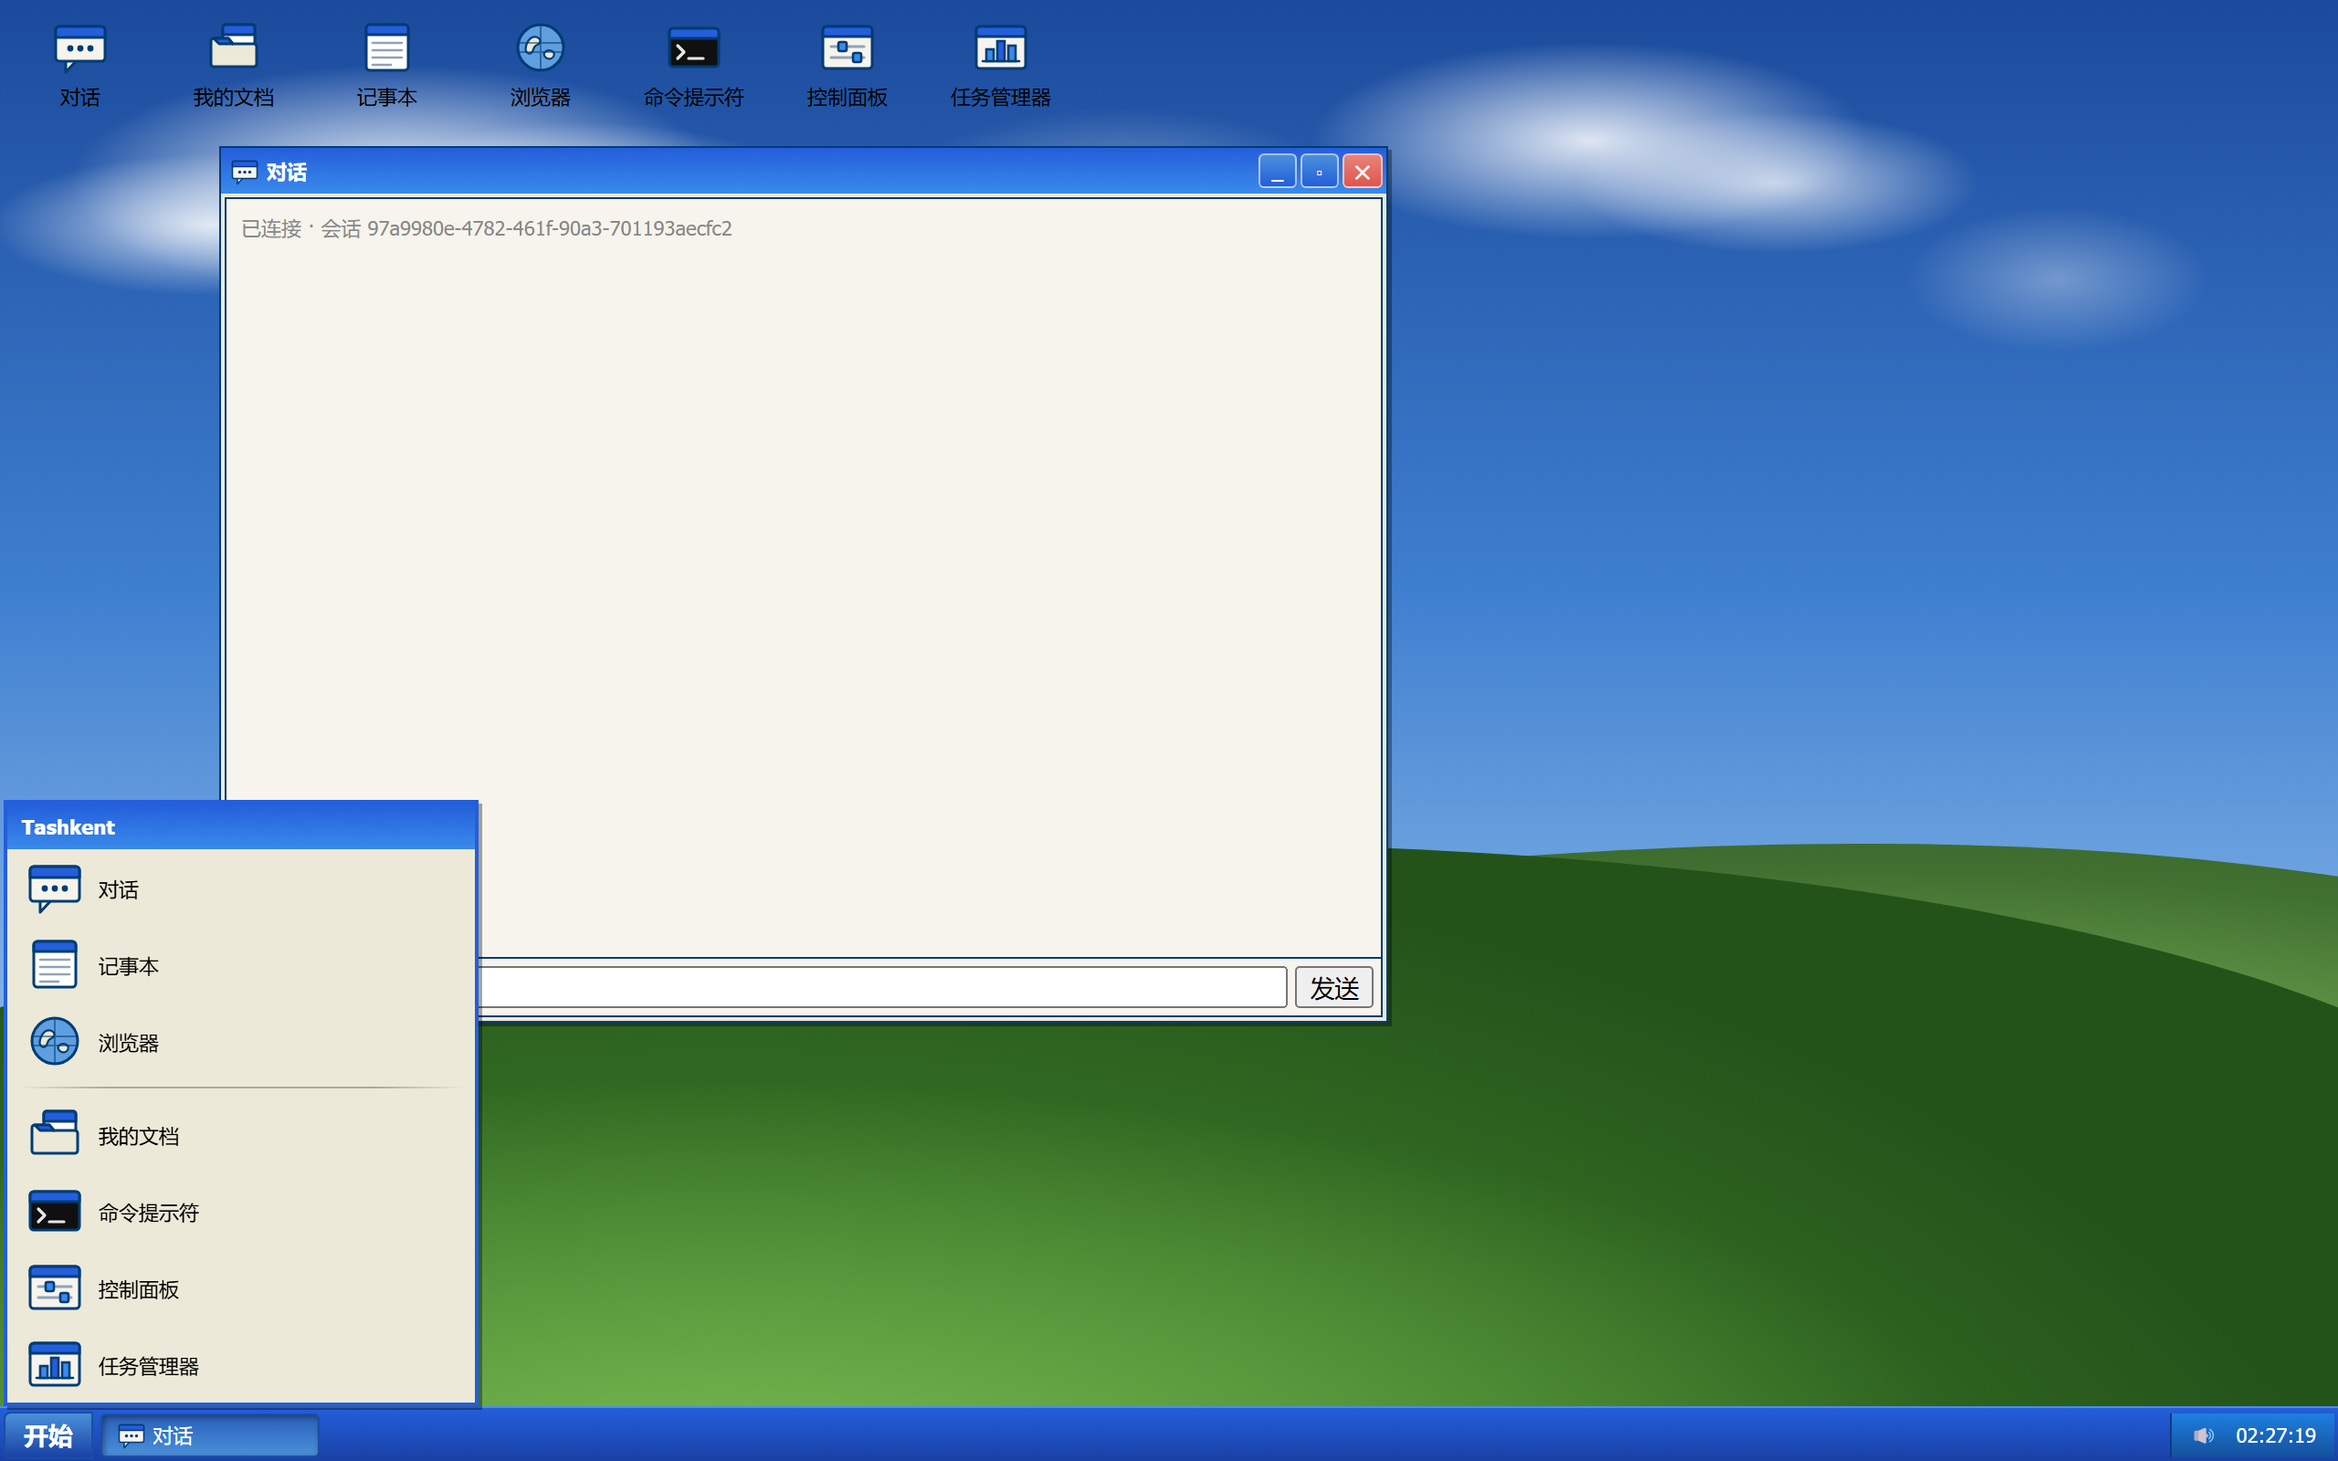
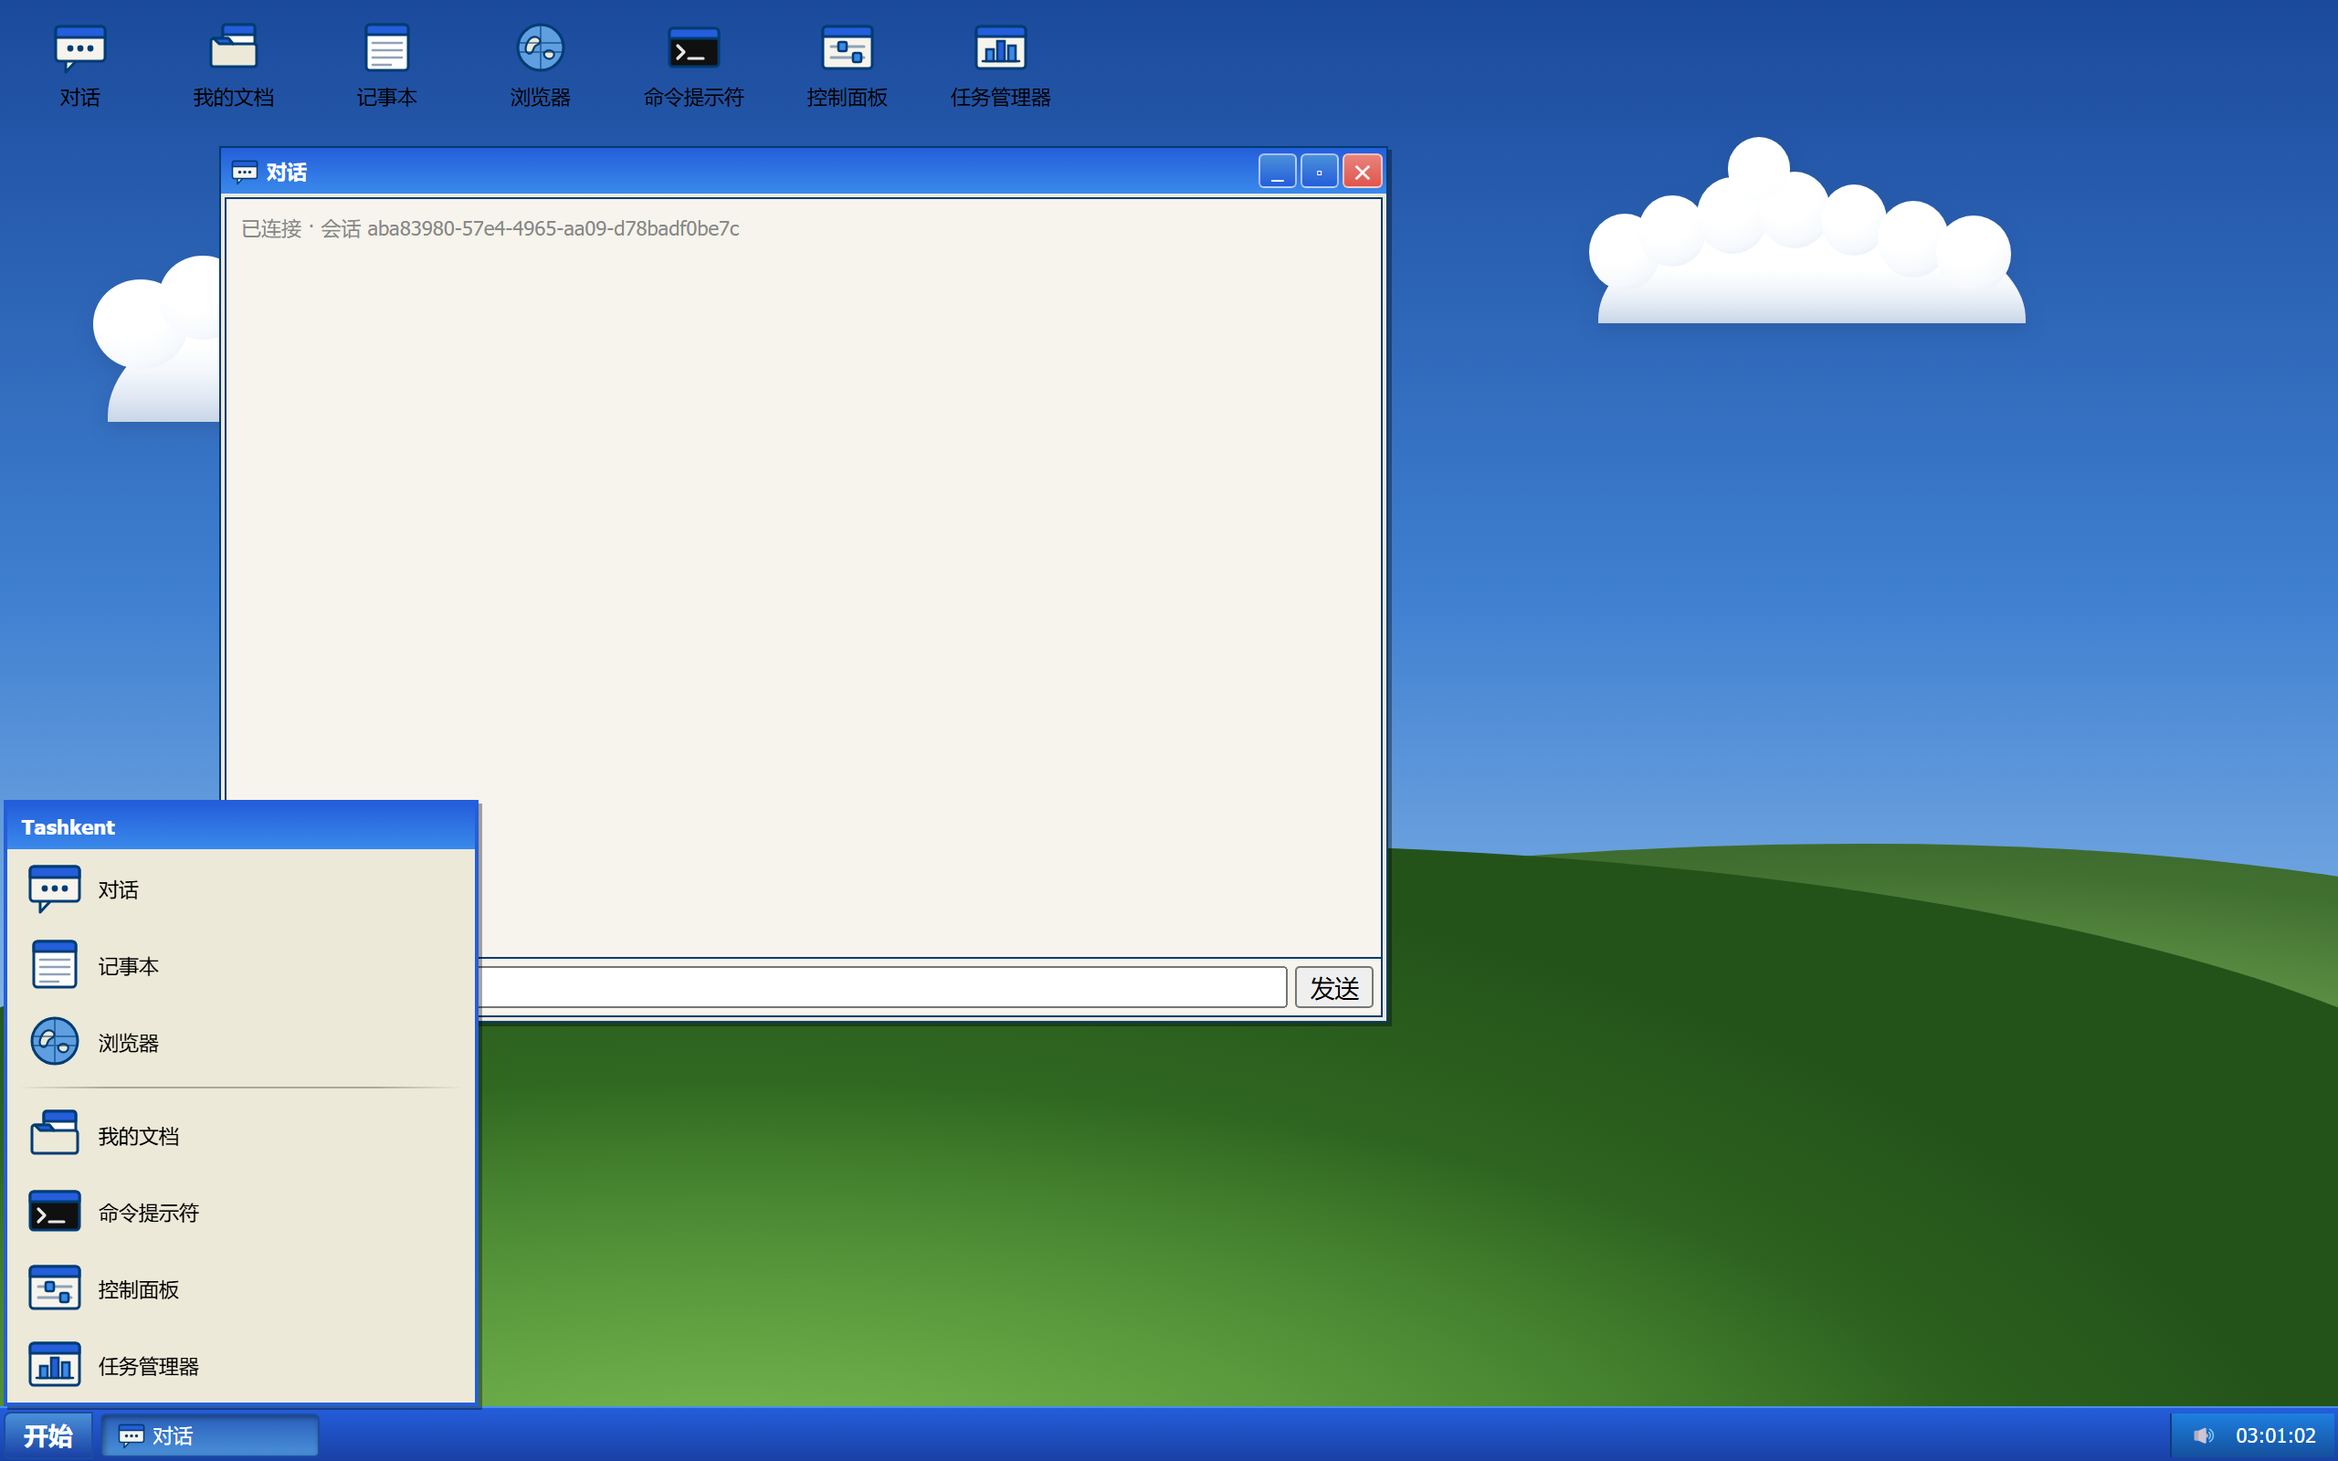
fix(desktop): 重做 Bliss 壁纸云层，边缘锐利的白色积云
原云层用羽化过度的径向渐变画云，100% 缩放下糊成几团灰白污渍，
不像 XP 经典壁纸里边缘清晰、有体积感的白色积云。

改为每朵云由多个椭圆团块叠成：团块用 border-radius:50% 硬切，
轮廓锐利；材质是偏心径向渐变，高光在左上、灰调沉在右下；
底部一块平底穹顶托住整朵云，做出 Bliss 标志性的水平底缘；
顶部一排大小不一的圆丘连成起伏的扇贝边。
整朵云只投一次 drop-shadow，不用 blur。

同时修了 verify_visual.py：窗口列表持久化在 SQLite 里，
上一轮脚本打开的窗口会在下一轮恢复并污染桌面截图，
现在截图前先清空服务端窗口列表。

diff --git a/apps/desktop/src/styles/xp.css b/apps/desktop/src/styles/xp.css
@@ -316,33 +316,142 @@ body {
   background: #3f7fd0;
 }
 
-/* 天空：上深下浅的蓝色渐变 + 两团柔和的白云 */
+/* 天空：上深下浅的蓝色渐变。云的形状完全交给 .xp-wallpaper-cloud，这里只铺底色。 */
 .xp-wallpaper-sky {
   position: absolute;
   inset: 0;
-  background:
-    /* 左上角的大朵积云：几个交叠的椭圆团 */
-    radial-gradient(ellipse 20% 12% at 17% 13%, rgba(255, 255, 255, 0.92) 0%, rgba(255, 255, 255, 0) 70%),
-    radial-gradient(ellipse 15% 9% at 25% 15%, rgba(255, 255, 255, 0.88) 0%, rgba(255, 255, 255, 0) 70%),
-    radial-gradient(ellipse 13% 7% at 9% 16%, rgba(255, 255, 255, 0.8) 0%, rgba(255, 255, 255, 0) 72%),
-    /* 右上方的云团 */
-    radial-gradient(ellipse 17% 10% at 68% 10%, rgba(255, 255, 255, 0.85) 0%, rgba(255, 255, 255, 0) 70%),
-    radial-gradient(ellipse 12% 7% at 76% 13%, rgba(255, 255, 255, 0.7) 0%, rgba(255, 255, 255, 0) 72%),
-    linear-gradient(180deg, #1b4a9c 0%, #3f7fd0 42%, #86b6e8 74%, #cfe3f5 100%);
+  background: linear-gradient(180deg, #1b4a9c 0%, #3f7fd0 42%, #86b6e8 74%, #cfe3f5 100%);
 }
 
-/* 高空的薄云：横向拉长的白色带 */
+/*
+ * 云层。
+ *
+ * 结构：.xp-wallpaper-cloud 是铺满天空的容器（自身不绘制任何形状），
+ * 里面放两朵 .xp-cloud，每朵由若干 .xp-puff 椭圆团块叠加而成。
+ *
+ * 关键点：
+ *  - 团块用 border-radius:50% 的实心元素，轮廓硬切，边缘锐利（不做羽化）；
+ *  - 不用 filter: blur()，边缘靠几何而非模糊获得。
+ */
 .xp-wallpaper-cloud {
   position: absolute;
-  left: 0;
-  right: 0;
-  top: 4%;
-  height: 24%;
-  background:
-    radial-gradient(ellipse 14% 40% at 48% 44%, rgba(255, 255, 255, 0.4) 0%, rgba(255, 255, 255, 0) 72%),
-    radial-gradient(ellipse 9% 30% at 88% 66%, rgba(255, 255, 255, 0.34) 0%, rgba(255, 255, 255, 0) 72%);
+  inset: 0;
   pointer-events: none;
+  overflow: hidden;
 }
+
+.xp-cloud {
+  position: absolute;
+  /*
+   * 对整朵云的合成轮廓投一次影子，让云从天空里「浮」起来。
+   * drop-shadow 只复制轮廓并偏移，不会软化云自身的边缘。
+   */
+  filter: drop-shadow(0 4px 5px rgba(30, 60, 112, 0.22));
+}
+
+/*
+ * 团块（云的基本单元）。
+ *
+ * 边缘由 border-radius:50% 硬切，因此轮廓锐利，绝不做羽化。
+ *
+ * 团块自身不带投影 —— 每个团块各拖一道影子的话，下缘全是深色弧线，
+ * 整朵云看起来像一摞叠起来的硬币。深度感来自两处：
+ *  - 偏心的径向渐变：高光在左上、灰调沉在右下，读起来是一个球面；
+ *  - 整朵云由 .xp-cloud 的 drop-shadow 一次性投到天空上。
+ */
+.xp-puff {
+  position: absolute;
+  display: block;
+  border-radius: 50%;
+  background: radial-gradient(
+    circle at 38% 22%,
+    #ffffff 0%,
+    #ffffff 44%,
+    #f6f9fd 72%,
+    #e8eef7 90%,
+    #dae3ef 100%
+  );
+}
+
+/*
+ * 云底：积云背光的一面。
+ * 用 border-radius 的八值语法把底部两个角压成 0 —— 上半是饱满的穹顶，
+ * 下缘是一条近水平的直线，这是 XP Bliss 云朵最关键的特征。
+ * 每朵云只有一块底盘：两块并排会在接缝处留下台阶状缺口。
+ *
+ * 灰调要压在最下面：底盘大半被白色团块盖住，只露出下缘一条，
+ * 云底才像「被光照亮的云的底面」，而不是压在云下面的一块灰板。
+ */
+.xp-puff--base {
+  border-radius: 50% 50% 0 0 / 96% 96% 0 0;
+  background: linear-gradient(180deg, #ffffff 0%, #ffffff 52%, #f2f6fb 70%, #dee7f2 86%, #c9d5e7 100%);
+}
+
+/* 云冠：最高处的团块，几乎全白 */
+.xp-puff--crown {
+  background: radial-gradient(
+    circle at 36% 20%,
+    #ffffff 0%,
+    #ffffff 62%,
+    #fbfdff 84%,
+    #f2f7fc 100%
+  );
+}
+
+/*
+ * ---- 左上方的大朵积云 ----
+ *
+ * 结构：一块平底穹顶（base）托住一排气丘状团块（body），
+ * 最高处再叠两块纯白云冠（crown）。
+ * 底缘因此是一条近水平的直线，顶部轮廓则是起伏的扇贝边 —— XP Bliss 的两个特征。
+ *
+ * 注意：width 的百分比按容器宽算、height 的百分比按容器高算，
+ * 容器宽高比约 2 : 1，所以「圆」的 width : height 要取 15% : 34% 左右，
+ * 而不是 1 : 1 —— 否则团块会被拉成竖长的椭圆。
+ *
+ * 位置下移到图标行之下，避免与左上角桌面图标抢视觉。
+ */
+.xp-cloud--large {
+  left: 4%;
+  top: 9%;
+  width: 31%;
+  height: 21%;
+}
+
+/* 底盘：单一穹顶，底缘齐平，左右与团块列对齐 */
+.xp-puff--l0 { left: 2%; top: 46%; width: 96%; height: 54%; }
+/* 主体：一排大小不一的圆丘，重叠后连成起伏的扇贝边；下缘嵌入底盘 */
+.xp-puff--l1 { left: 0%;   top: 52%; width: 13%; height: 30%; }
+.xp-puff--l2 { left: 9%;   top: 44%; width: 12%; height: 28%; }
+.xp-puff--l3 { left: 18%;  top: 36%; width: 13%; height: 30%; }
+.xp-puff--l4 { left: 28%;  top: 29%; width: 12%; height: 28%; }
+.xp-puff--l5 { left: 38%;  top: 25%; width: 13%; height: 30%; }
+.xp-puff--l6 { left: 49%;  top: 31%; width: 12%; height: 28%; }
+.xp-puff--l7 { left: 59%;  top: 39%; width: 12%; height: 28%; }
+.xp-puff--l8 { left: 68%;  top: 46%; width: 13%; height: 30%; }
+.xp-puff--l9 { left: 78%;  top: 52%; width: 14%; height: 30%; }
+/* 云冠：纯白，抬在最高处 */
+.xp-puff--l10 { left: 25%; top: 18%; width: 11%; height: 25%; }
+.xp-puff--l11 { left: 37%; top: 14%; width: 12%; height: 27%; }
+
+/* ---- 右侧的中等云：更小、更高 ---- */
+.xp-cloud--small {
+  left: 68%;
+  top: 8%;
+  width: 19%;
+  height: 15%;
+}
+
+.xp-puff--s0 { left: 2%;  top: 46%; width: 96%; height: 54%; }
+.xp-puff--s1 { left: 0%;  top: 48%; width: 16%; height: 36%; }
+.xp-puff--s2 { left: 11%; top: 39%; width: 15%; height: 34%; }
+.xp-puff--s3 { left: 24%; top: 31%; width: 16%; height: 36%; }
+.xp-puff--s4 { left: 38%; top: 28%; width: 16%; height: 36%; }
+.xp-puff--s5 { left: 52%; top: 34%; width: 15%; height: 34%; }
+.xp-puff--s6 { left: 65%; top: 42%; width: 16%; height: 36%; }
+.xp-puff--s7 { left: 78%; top: 49%; width: 17%; height: 36%; }
+/* 云冠 */
+.xp-puff--s8 { left: 31%; top: 12%; width: 14%; height: 30%; }
 
 /* 绿丘：椭圆上凸的草坡，近处更暗更饱和 */
 .xp-wallpaper-hill {

diff --git a/apps/desktop/src/shell/Wallpaper.tsx b/apps/desktop/src/shell/Wallpaper.tsx
@@ -3,12 +3,49 @@
  *
  * 不引用外部图片（避免网络依赖与版权风险），用多层 CSS 渐变模拟 XP 经典壁纸：
  * 蓝天 + 白云 + 远近两层起伏绿丘。
+ *
+ * 云层刻意避开「一团羽化过度的径向渐变」——那种画法在 100% 缩放下只会糊成灰白污渍。
+ * 现在的做法是多个椭圆团簇叠加：
+ *  - 每个团块是一个 border-radius:50% 的元素，轮廓由圆角硬切，边缘锐利；
+ *  - 团块是纯白的，靠很轻的投影与环境遮蔽暗示球面，而不是各画各的渐变
+ *    （那样相邻团块之间会出现生硬的色调边界，整朵云像一摞白球）；
+ *  - 真正的灰在云底 —— 积云背光的那一面，也是 XP Bliss 最标志性的平底。
+ *
+ * 团块的几何（位置/尺寸）用索引修饰类描述，材质（渐变/投影）用语义修饰类描述。
+ *
+ * 数组顺序即绘制顺序：后排先画、被前排压住。
+ * 'base' 是压在最下面的平底灰白底盘，'body' 是白色主体，
+ * 'crown' 是最高最白的云冠。
  */
+const LARGE_PUFFS = [
+  'base',
+  'body', 'body', 'body', 'body', 'body', 'body', 'body', 'body', 'body',
+  'crown', 'crown',
+] as const;
+const SMALL_PUFFS = [
+  'base',
+  'body', 'body', 'body', 'body', 'body', 'body', 'body',
+  'crown',
+] as const;
+
 export default function Wallpaper() {
   return (
     <div className="xp-wallpaper" data-testid="wallpaper">
       <div className="xp-wallpaper-sky" data-testid="wallpaper-sky" />
-      <div className="xp-wallpaper-cloud" data-testid="wallpaper-cloud" />
+      <div className="xp-wallpaper-cloud" data-testid="wallpaper-cloud">
+        {/* 左上方的大朵积云（XP 原图的主云） */}
+        <div className="xp-cloud xp-cloud--large" data-testid="wallpaper-cloud-large">
+          {LARGE_PUFFS.map((kind, i) => (
+            <span key={i} className={`xp-puff xp-puff--${kind} xp-puff--l${i}`} />
+          ))}
+        </div>
+        {/* 右侧的中等云 */}
+        <div className="xp-cloud xp-cloud--small" data-testid="wallpaper-cloud-small">
+          {SMALL_PUFFS.map((kind, i) => (
+            <span key={i} className={`xp-puff xp-puff--${kind} xp-puff--s${i}`} />
+          ))}
+        </div>
+      </div>
       <div className="xp-wallpaper-hill far" data-testid="wallpaper-hill-far" />
       <div className="xp-wallpaper-hill" data-testid="wallpaper-hill" />
     </div>

diff --git a/apps/desktop/src/shell/Wallpaper.test.tsx b/apps/desktop/src/shell/Wallpaper.test.tsx
@@ -48,6 +48,45 @@ describe('Wallpaper Bliss 壁纸', () => {
     view.unmount();
   });
 
+  it('渲染两朵积云：左上一朵大的、右侧一朵小的', () => {
+    const view = render();
+    const clouds = view.container.querySelectorAll('.xp-cloud');
+    expect(clouds.length).toBe(2);
+    expect(view.container.querySelector('[data-testid="wallpaper-cloud-large"]')).not.toBeNull();
+    expect(view.container.querySelector('[data-testid="wallpaper-cloud-small"]')).not.toBeNull();
+    view.unmount();
+  });
+
+  it('每朵云由多个椭圆团块叠成（而不是一整块渐变）', () => {
+    const view = render();
+    const large = view.container.querySelector('[data-testid="wallpaper-cloud-large"]')!;
+    const small = view.container.querySelector('[data-testid="wallpaper-cloud-small"]')!;
+    // 团块数量下限：太少就退化成一块糊开的渐变
+    expect(large.querySelectorAll('.xp-puff').length).toBeGreaterThanOrEqual(6);
+    expect(small.querySelectorAll('.xp-puff').length).toBeGreaterThanOrEqual(5);
+    view.unmount();
+  });
+
+  it('每朵云只有一块平底底盘，底缘是水平直线', () => {
+    const view = render();
+    const large = view.container.querySelector('[data-testid="wallpaper-cloud-large"]')!;
+    // 底盘负责 XP Bliss 最标志性的平底；两块并排会在接缝处留下台阶缺口
+    expect(large.querySelectorAll('.xp-puff--base').length).toBe(1);
+    expect(large.querySelectorAll('.xp-puff--crown').length).toBeGreaterThanOrEqual(1);
+    view.unmount();
+  });
+
+  it('云团块边缘锐利：靠 border-radius 硬切，不用模糊', () => {
+    const puffRule = xpCss.slice(
+      xpCss.indexOf('.xp-puff {'),
+      xpCss.indexOf('.xp-puff--base'),
+    );
+    expect(puffRule).toMatch(/border-radius:\s*50%/);
+    // 羽化（blur / 渐变羽化）会让云糊成灰白污渍，是这次要修掉的旧问题
+    expect(puffRule).not.toMatch(/filter:\s*blur/);
+    expect(puffRule).not.toMatch(/backdrop-filter/);
+  });
+
   it('壁纸层覆盖任务栏以外的全部桌面区域', () => {
     // 壁纸底边要留给 30px 的任务栏
     expect(xpCss).toMatch(/\.xp-wallpaper\s*\{[^}]*inset:\s*0 0 30px 0/);

diff --git a/scripts/verify_visual.py b/scripts/verify_visual.py
@@ -22,6 +22,18 @@ def wait(url, timeout=30):
     return False
 
 
+async def close_all_windows(page):
+    """清空服务端持久化的窗口列表，让桌面截图回到「刚开机」的状态。"""
+    try:
+        res = await page.request.get('http://localhost:8080/api/desktop/windows')
+        body = await res.json()
+        for w in body.get('windows', []):
+            await page.request.delete(
+                f"http://localhost:8080/api/desktop/windows/{w['id']}")
+    except Exception as e:
+        print('清空窗口列表失败（可忽略）:', e)
+
+
 async def main():
     server = subprocess.Popen(
         [sys.executable, '-c',
@@ -43,10 +55,15 @@ async def main():
             print('后端未就绪')
             return
 
+        # 窗口列表持久化在 SQLite 里，上一轮脚本打开的窗口会在这一轮恢复，
+        # 污染桌面截图。这里先清空，保证每次截的都是「干净桌面」。
         async with async_playwright() as p:
             browser = await p.chromium.launch()
             page = await browser.new_page(viewport={"width": 1280, "height": 800},
                                           device_scale_factor=2)
+
+            await close_all_windows(page)
+
             # SSE 长连接会让 networkidle 永不触发，改用 domcontentloaded
             await page.goto('http://localhost:8080/', wait_until='domcontentloaded')
             await page.wait_for_timeout(3000)
